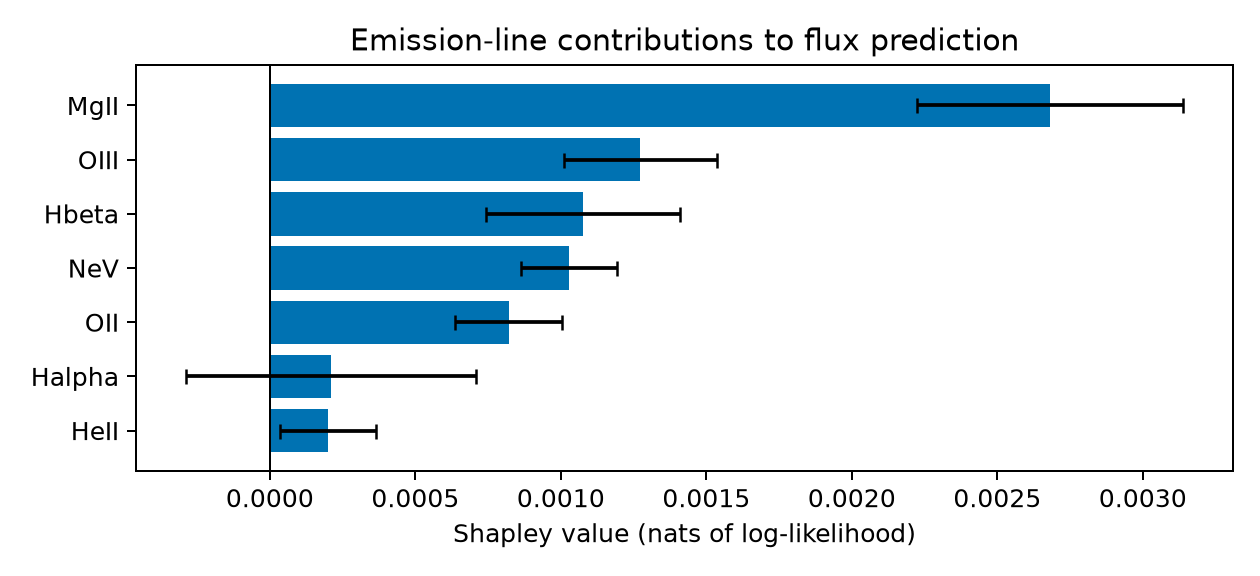
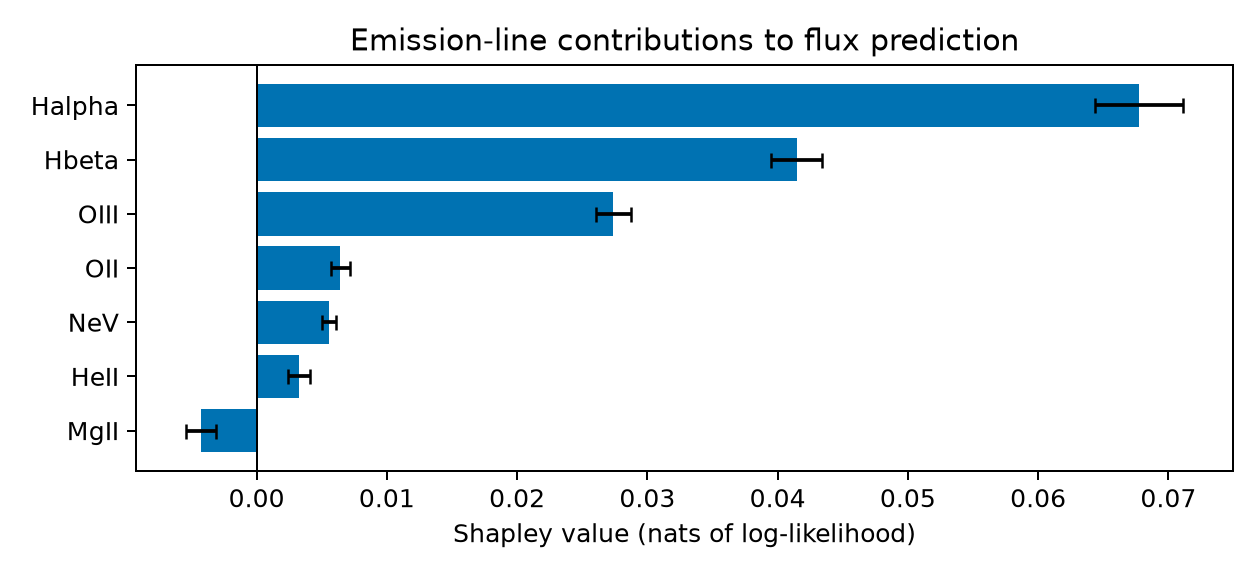
flux-info slide: v2 drop-mode results (Balmer dominance, line/continuum redundancy)
Claude-Session: https://claude.ai/code/session_01UBstgpgc5mhfYM5hW6yEdG

diff --git a/docs/make_slides.py b/docs/make_slides.py
@@ -293,14 +293,15 @@ def main() -> None:
         # ---- 6d Line/continuum Shapley (flux, spectra-only surrogate)
         if (FIGS / "fig_shapley_heatmap.png").exists():
             fig, ax = new_slide("Where in the spectrum is the flux information?",
-                                "line/continuum Shapley on the spectra-only model · masked tokens replaced by own smoothed continuum")
+                                "line/continuum Shapley, AION-native token dropping (guard band from measured codec receptive field)")
             image_panel(fig, FIGS / "fig_shapley_heatmap.png", (0.03, 0.42, 0.94, 0.40))
             image_panel(fig, FIGS / "fig_shapley_lines.png", (0.16, 0.01, 0.48, 0.40))
             ax2 = fig.add_axes([0.68, 0.06, 0.30, 0.32]); ax2.axis("off")
             bullets(ax2, [
-                "7 lines: 10% of fine-structure info",
-                "MgII strongest line",
-                "smooth SED carries most of it",
+                "Balmer lines dominate: H$\alpha$, H$\beta$, OIII",
+                "lines alone keep 92% of the info,
+   continuum alone 96%: redundant",
+                "MgII slightly negative",
             ], fontsize=12, dy=0.30)
             pdf.savefig(fig); plt.close(fig)
 
